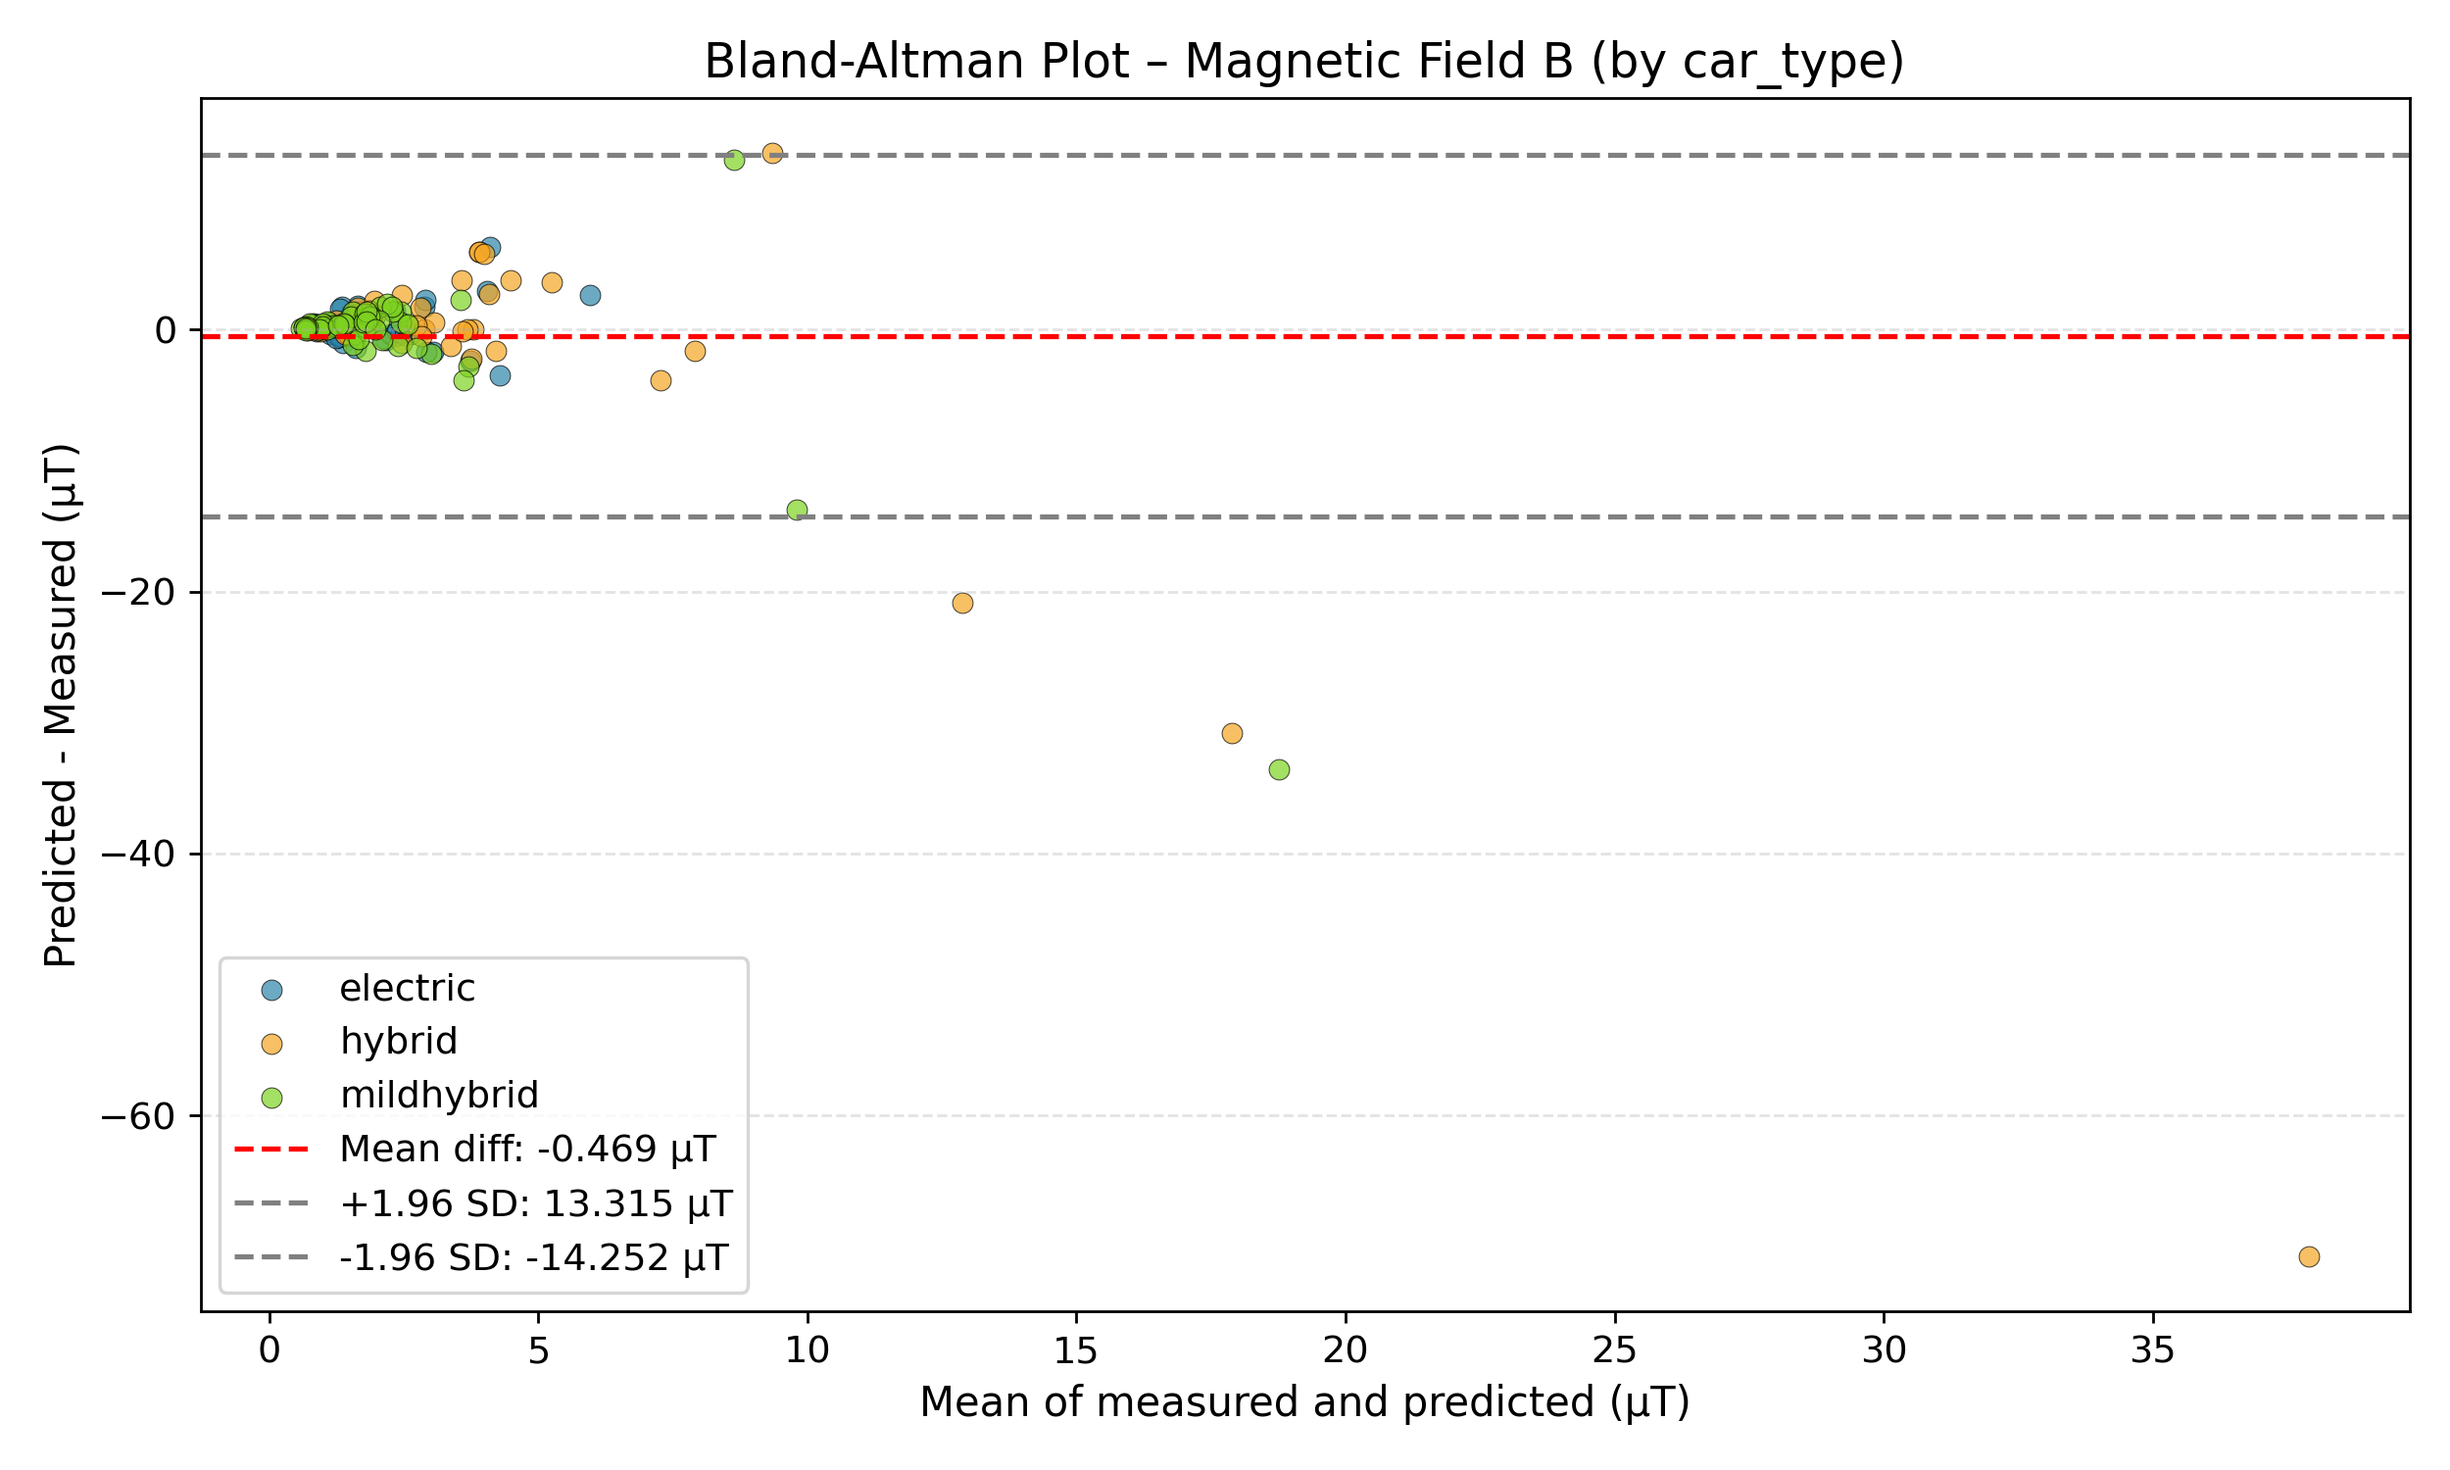
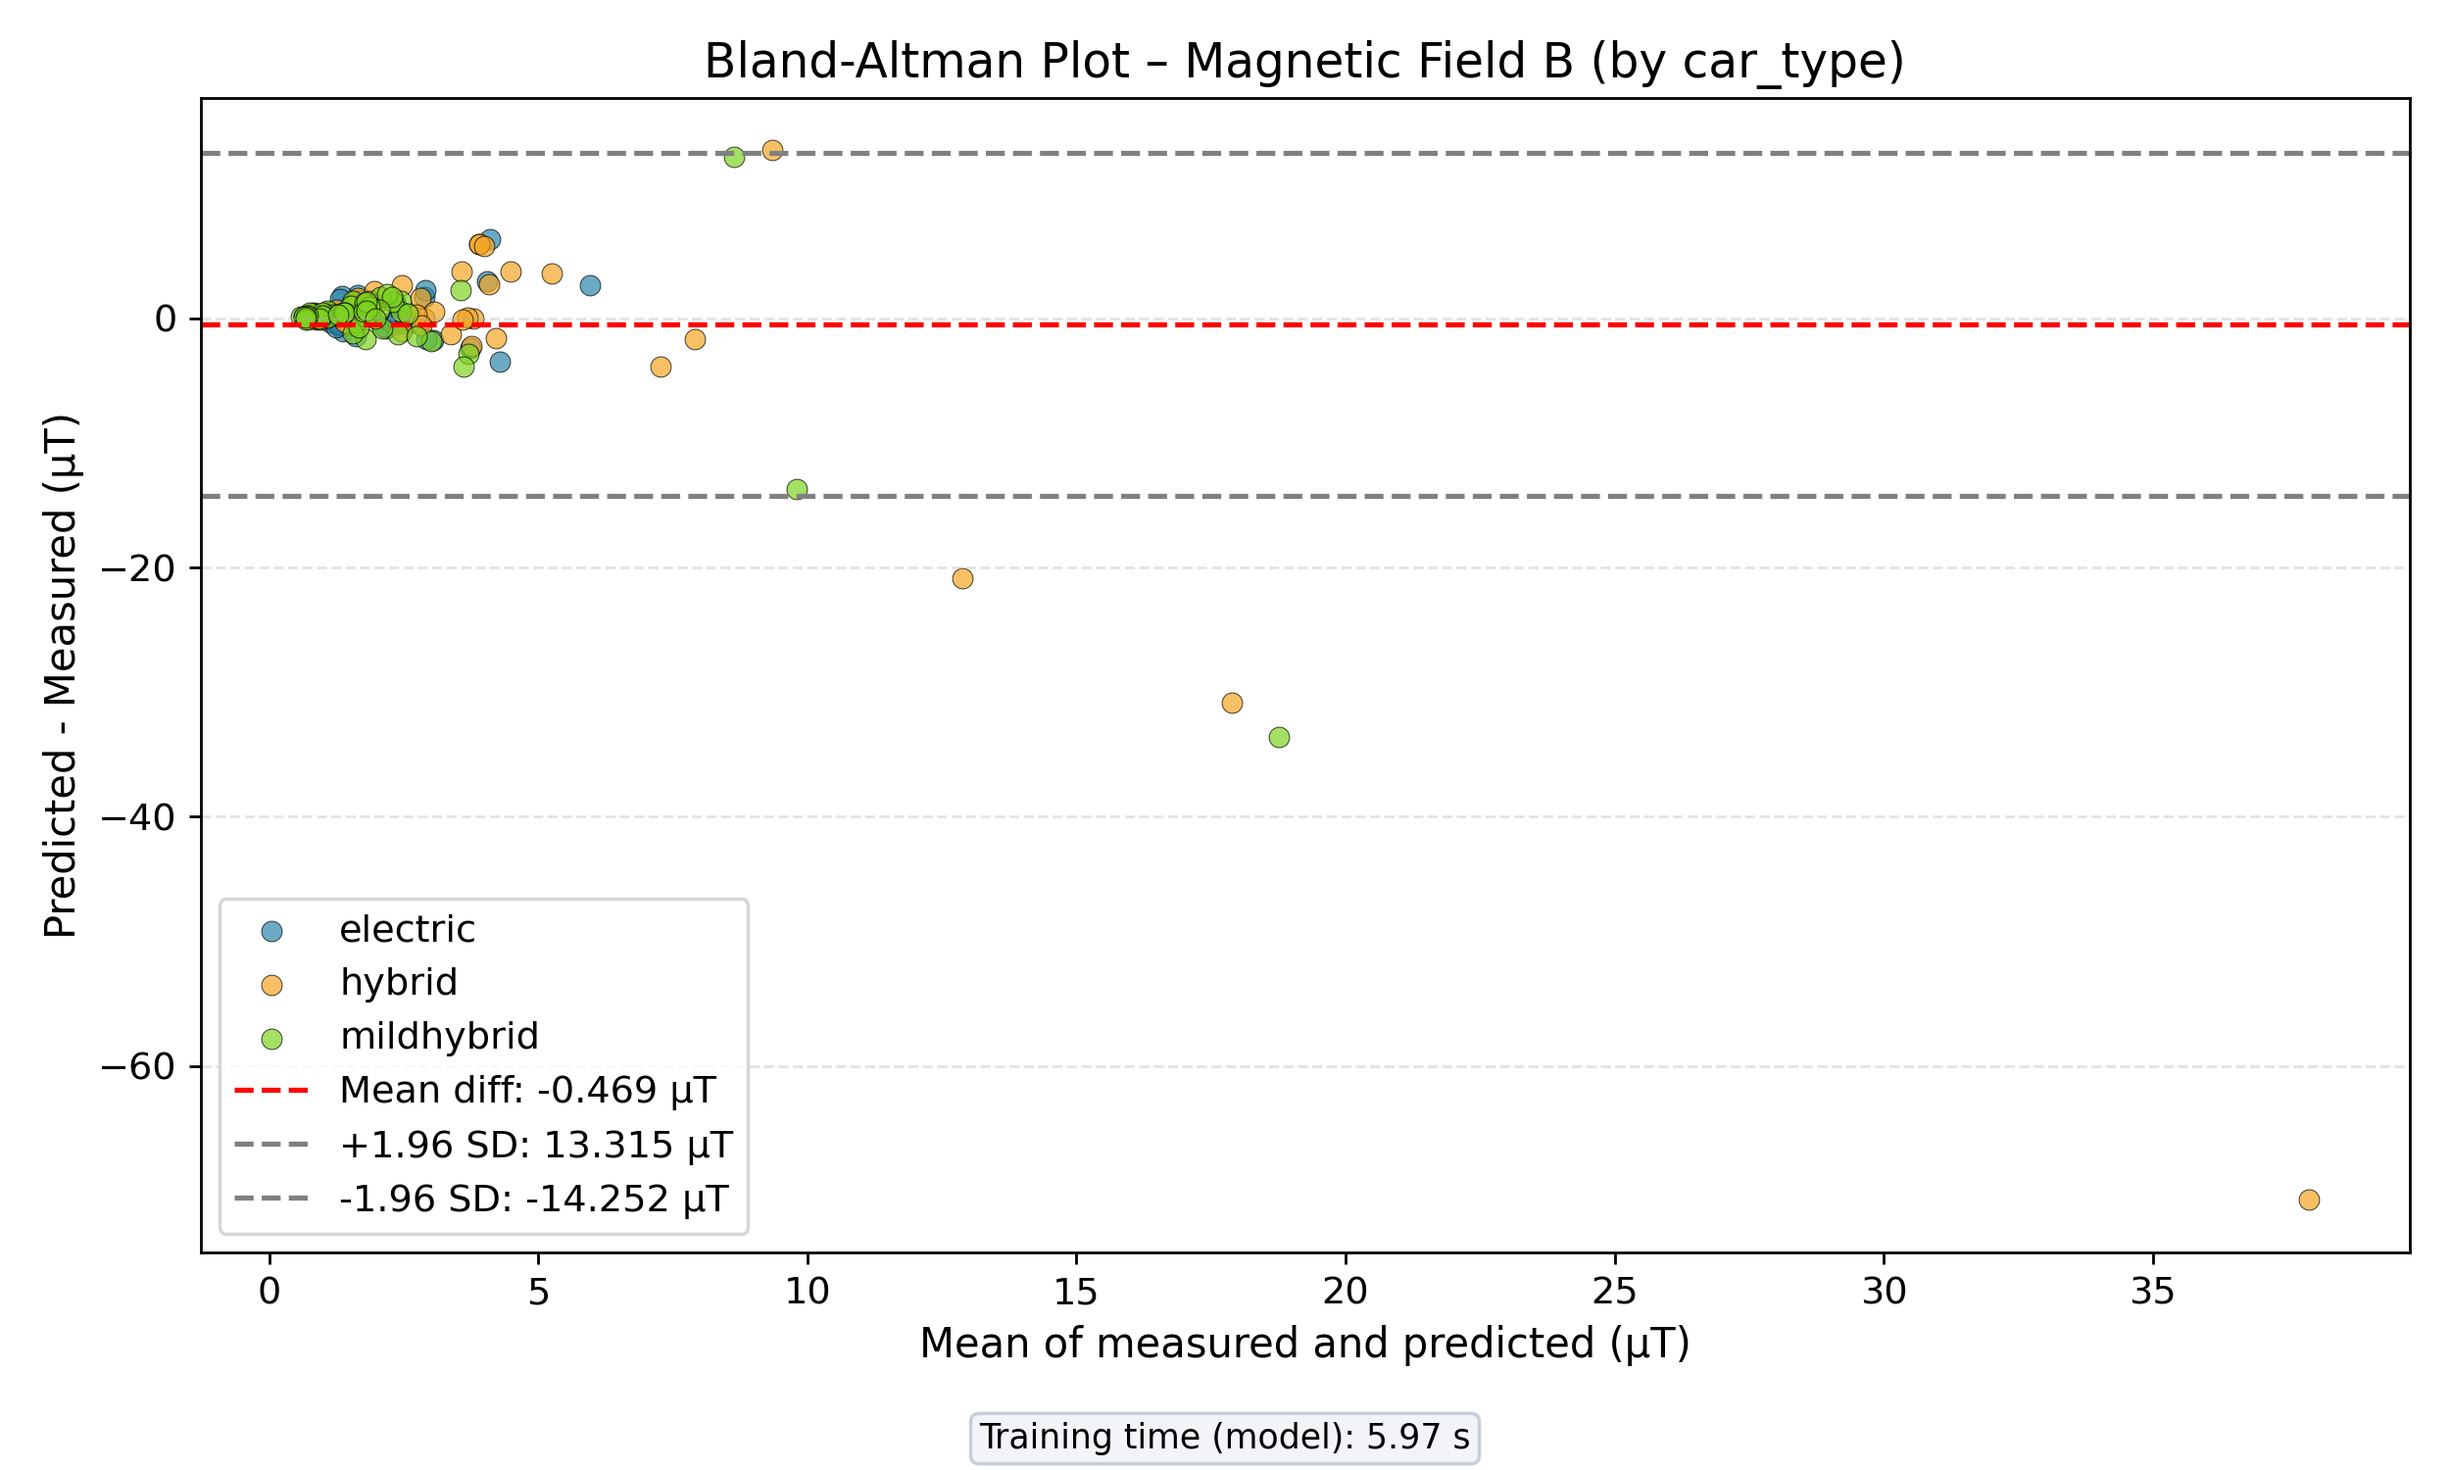
Added mesurment by location

diff --git a/src/rf_elf_model.py b/src/rf_elf_model.py
@@ -517,6 +517,7 @@ def _bland_altman_plot(
     units: str,
     out_path: Path,
     groups: pd.Series | None = None,
+    training_seconds: float | None = None,
 ) -> None:
     """Create and save a Bland-Altman plot."""
     measured = pd.to_numeric(measured, errors="coerce")
@@ -577,7 +578,17 @@ def _bland_altman_plot(
     ax.set_ylabel(f"Predicted - Measured ({units})")
     ax.grid(axis="y", linestyle="--", alpha=0.35)
     ax.legend()
-    fig.tight_layout()
+    if training_seconds is not None:
+        fig.text(
+            0.5,
+            0.01,
+            f"Training time (model): {training_seconds:.2f} s",
+            ha="center",
+            va="bottom",
+            fontsize=PLOT_STYLE["base_fontsize"] - 1,
+            bbox={"boxstyle": "round,pad=0.25", "facecolor": "#F2F4F8", "edgecolor": "#C7CEDB"},
+        )
+    fig.tight_layout(rect=(0, 0.04, 1, 1))
 
     plt.savefig(out_path, dpi=PLOT_STYLE["dpi"])
     plt.close()
@@ -591,6 +602,7 @@ _bland_altman_plot(
     label="Magnetic Field B",
     units="µT",
     out_path=bland_altman_b_path,
+    training_seconds=rf_train_seconds,
 )
 _bland_altman_plot(
     measured=y.iloc[:, 1],
@@ -598,6 +610,7 @@ _bland_altman_plot(
     label="Electric Field E",
     units="V/m",
     out_path=bland_altman_e_path,
+    training_seconds=rf_train_seconds,
 )
 bland_altman_b_by_car_path = results_dir / "bland_altman_b_by_car.png"
 bland_altman_e_by_car_path = results_dir / "bland_altman_e_by_car.png"
@@ -608,6 +621,7 @@ _bland_altman_plot(
     units="µT",
     out_path=bland_altman_b_by_car_path,
     groups=X["car_type"],
+    training_seconds=rf_train_seconds,
 )
 _bland_altman_plot(
     measured=y.iloc[:, 1],
@@ -616,8 +630,249 @@ _bland_altman_plot(
     units="V/m",
     out_path=bland_altman_e_by_car_path,
     groups=X["car_type"],
+    training_seconds=rf_train_seconds,
 )
 print(f"Saved Bland-Altman plots: {bland_altman_b_path}, {bland_altman_e_path}\n")
+
+# -----------------------------------------------------
+# Training time & prediction error by category plots
+# -----------------------------------------------------
+def _plot_mae_by_category(
+    categories: pd.Series,
+    errors_b: pd.Series,
+    errors_e: pd.Series,
+    title: str,
+    out_path: Path,
+) -> None:
+    """Plot mean absolute error by category for B and E."""
+    df = pd.DataFrame(
+        {
+            "category": categories.astype(str),
+            "err_b": errors_b,
+            "err_e": errors_e,
+        }
+    ).dropna()
+    mae = (
+        df.groupby("category")[["err_b", "err_e"]]
+        .mean()
+        .sort_index()
+    )
+    if mae.empty:
+        return
+
+    x = np.arange(len(mae.index))
+    width = 0.35
+
+    plt.rcParams.update(
+        {
+            "font.size": PLOT_STYLE["base_fontsize"],
+            "axes.titlesize": PLOT_STYLE["title_fontsize"],
+            "axes.labelsize": 12,
+        }
+    )
+    fig, ax = plt.subplots(figsize=(12, 6))
+    ax.bar(x - width / 2, mae["err_b"], width, label="B (µT)", color="#2E86AB")
+    ax.bar(x + width / 2, mae["err_e"], width, label="E (V/m)", color="#4A90E2")
+
+    ax.set_title(title)
+    ax.set_xlabel("Category")
+    ax.set_ylabel("Mean Absolute Error")
+    ax.set_xticks(x)
+    ax.set_xticklabels(mae.index, rotation=25, ha="right")
+    ax.grid(axis="y", linestyle="--", alpha=0.35)
+    ax.legend()
+    fig.tight_layout()
+
+    plt.savefig(out_path, dpi=PLOT_STYLE["dpi"])
+    plt.close()
+
+
+def _plot_training_time_bar(out_path: Path) -> None:
+    """Plot training time per model."""
+    labels = ["Baseline", "Random Forest"]
+    times = [baseline_train_seconds, rf_train_seconds]
+    if tf_metrics is not None:
+        labels.append("TensorFlow")
+        times.append(float(tf_metrics["train_seconds"]))
+
+    plt.rcParams.update(
+        {
+            "font.size": PLOT_STYLE["base_fontsize"],
+            "axes.titlesize": PLOT_STYLE["title_fontsize"],
+            "axes.labelsize": 12,
+        }
+    )
+    fig, ax = plt.subplots(figsize=(8, 5))
+    ax.bar(labels, times, color=["#9B9B9B", "#2E86AB", "#7ED321"][: len(labels)])
+    ax.set_title("Training Time by Model")
+    ax.set_ylabel("Seconds")
+    ax.grid(axis="y", linestyle="--", alpha=0.35)
+    fig.tight_layout()
+
+    plt.savefig(out_path, dpi=PLOT_STYLE["dpi"])
+    plt.close()
+
+
+# Errors for B and E
+errors_b = (y_pred_cv[:, 0] - y.iloc[:, 0]).abs()
+errors_e = (y_pred_cv[:, 1] - y.iloc[:, 1]).abs()
+
+training_time_plot = results_dir / "training_time_by_model.png"
+_plot_training_time_bar(training_time_plot)
+
+location_plot = results_dir / "prediction_error_by_location.png"
+car_type_plot = results_dir / "prediction_error_by_car_type.png"
+_plot_mae_by_category(
+    categories=X["Location (front/rear seat/inside front shield)"],
+    errors_b=errors_b,
+    errors_e=errors_e,
+    title="Prediction Error (MAE) by Location",
+    out_path=location_plot,
+)
+_plot_mae_by_category(
+    categories=X["car_type"],
+    errors_b=errors_b,
+    errors_e=errors_e,
+    title="Prediction Error (MAE) by Car Type",
+    out_path=car_type_plot,
+)
+print(
+    f"Saved training/error plots: {training_time_plot}, {location_plot}, {car_type_plot}\n"
+)
+
+# -----------------------------------------------------
+# Additional graph: Measurement points by location/environment
+# -----------------------------------------------------
+def _plot_measurement_points_by_location_environment(
+    out_path: Path,
+) -> None:
+    """Plot raw measurement points by location, colored by outdoor environment."""
+    loc_col = "Location (front/rear seat/inside front shield)"
+    env_col = "Area description (Traffic and road conditions)"
+
+    df = pd.DataFrame(
+        {
+            "location": X[loc_col].astype(str),
+            "environment": X[env_col].astype(str),
+            "car_type": X["car_type"].astype(str),
+            "B": pd.to_numeric(y.iloc[:, 0], errors="coerce"),
+            "E": pd.to_numeric(y.iloc[:, 1], errors="coerce"),
+        }
+    ).dropna(subset=["location", "environment", "B", "E"])
+
+    if df.empty:
+        return
+
+    locations = sorted(df["location"].unique().tolist())
+    loc_to_x = {loc: i for i, loc in enumerate(locations)}
+    envs = sorted(df["environment"].unique().tolist())
+    cmap = plt.get_cmap("tab20")
+    env_to_color = {env: cmap(i % 20) for i, env in enumerate(envs)}
+
+    # Slight horizontal jitter so overlapping points become visible
+    rng = np.random.default_rng(42)
+    x_vals = df["location"].map(loc_to_x).to_numpy(dtype=float) + rng.uniform(
+        -0.15, 0.15, size=len(df)
+    )
+
+    plt.rcParams.update(
+        {
+            "font.size": PLOT_STYLE["base_fontsize"],
+            "axes.titlesize": PLOT_STYLE["title_fontsize"],
+            "axes.labelsize": 12,
+        }
+    )
+    fig, axes = plt.subplots(2, 1, figsize=(15, 10), sharex=True)
+
+    # Plot B
+    for env in envs:
+        mask = df["environment"] == env
+        axes[0].scatter(
+            x_vals[mask.values],
+            df.loc[mask, "B"],
+            s=35,
+            alpha=0.75,
+            color=env_to_color[env],
+            edgecolor="k",
+            linewidth=0.25,
+            label=env,
+        )
+    axes[0].set_title("Measurement Points by Location (colored by Outdoor Environment)")
+    axes[0].set_ylabel("B (µT)")
+    axes[0].grid(axis="y", linestyle="--", alpha=0.35)
+
+    # Plot E
+    for env in envs:
+        mask = df["environment"] == env
+        axes[1].scatter(
+            x_vals[mask.values],
+            df.loc[mask, "E"],
+            s=35,
+            alpha=0.75,
+            color=env_to_color[env],
+            edgecolor="k",
+            linewidth=0.25,
+        )
+    axes[1].set_ylabel("E (V/m)")
+    axes[1].set_xlabel("Location")
+    axes[1].grid(axis="y", linestyle="--", alpha=0.35)
+    axes[1].set_xticks(range(len(locations)))
+    axes[1].set_xticklabels(locations, rotation=20, ha="right")
+
+    # Use a single legend for environments
+    handles, labels = axes[0].get_legend_handles_labels()
+    if handles:
+        fig.legend(handles, labels, title="Outdoor environment", loc="upper right")
+
+    fig.tight_layout(rect=(0, 0, 0.88, 1))
+    plt.savefig(out_path, dpi=PLOT_STYLE["dpi"])
+    plt.close()
+
+
+measurement_points_plot = results_dir / "measurement_points_by_location_environment.png"
+_plot_measurement_points_by_location_environment(measurement_points_plot)
+print(f"Saved additional measurement-points plot: {measurement_points_plot}\n")
+
+# -----------------------------------------------------
+# Combined dashboard: Bland-Altman + Training/Error plots
+# -----------------------------------------------------
+def _compose_dashboard(
+    bland_altman_path: Path,
+    out_path: Path,
+) -> None:
+    """Create a 2x2 dashboard with Bland-Altman + training/error plots."""
+    if not (
+        bland_altman_path.exists()
+        and training_time_plot.exists()
+        and location_plot.exists()
+        and car_type_plot.exists()
+    ):
+        return
+
+    fig, axes = plt.subplots(2, 2, figsize=(16, 12))
+    ax = axes.ravel()
+
+    imgs = [
+        (bland_altman_path, "Bland-Altman"),
+        (location_plot, "Prediction Error by Location"),
+        (car_type_plot, "Prediction Error by Car Type"),
+        (training_time_plot, "Training Time by Model"),
+    ]
+    for i, (img_path, title) in enumerate(imgs):
+        img = plt.imread(img_path)
+        ax[i].imshow(img)
+        ax[i].set_title(title)
+        ax[i].axis("off")
+
+    fig.tight_layout()
+    plt.savefig(out_path, dpi=PLOT_STYLE["dpi"])
+    plt.close()
+
+
+bland_altman_dashboard_b = results_dir / "bland_altman_dashboard_b.png"
+bland_altman_dashboard_e = results_dir / "bland_altman_dashboard_e.png"
+_compose_dashboard(bland_altman_b_by_car_path, bland_altman_dashboard_b)
+_compose_dashboard(bland_altman_e_by_car_path, bland_altman_dashboard_e)
 
 
 # -----------------------------------------------------
@@ -1084,6 +1339,20 @@ with open(summary_path, "w", encoding="utf-8") as f:
         f.write("\nBland-Altman plots (Colored by car_type)\n")
         f.write(f"  - {bland_altman_b_by_car_path.name}\n")
         f.write(f"  - {bland_altman_e_by_car_path.name}\n")
+    if training_time_plot.exists():
+        f.write("\nTraining time plot\n")
+        f.write(f"  - {training_time_plot.name}\n")
+    if location_plot.exists() and car_type_plot.exists():
+        f.write("\nPrediction error plots (MAE)\n")
+        f.write(f"  - {location_plot.name}\n")
+        f.write(f"  - {car_type_plot.name}\n")
+    if measurement_points_plot.exists():
+        f.write("\nAdditional measurement points plot\n")
+        f.write(f"  - {measurement_points_plot.name}\n")
+    if bland_altman_dashboard_b.exists() and bland_altman_dashboard_e.exists():
+        f.write("\nBland-Altman dashboards (combined graphics)\n")
+        f.write(f"  - {bland_altman_dashboard_b.name}\n")
+        f.write(f"  - {bland_altman_dashboard_e.name}\n")
     f.write("\nPer-sheet what-if predictions (Multi-output)\n")
     for r in per_sheet_results:
         f.write(
